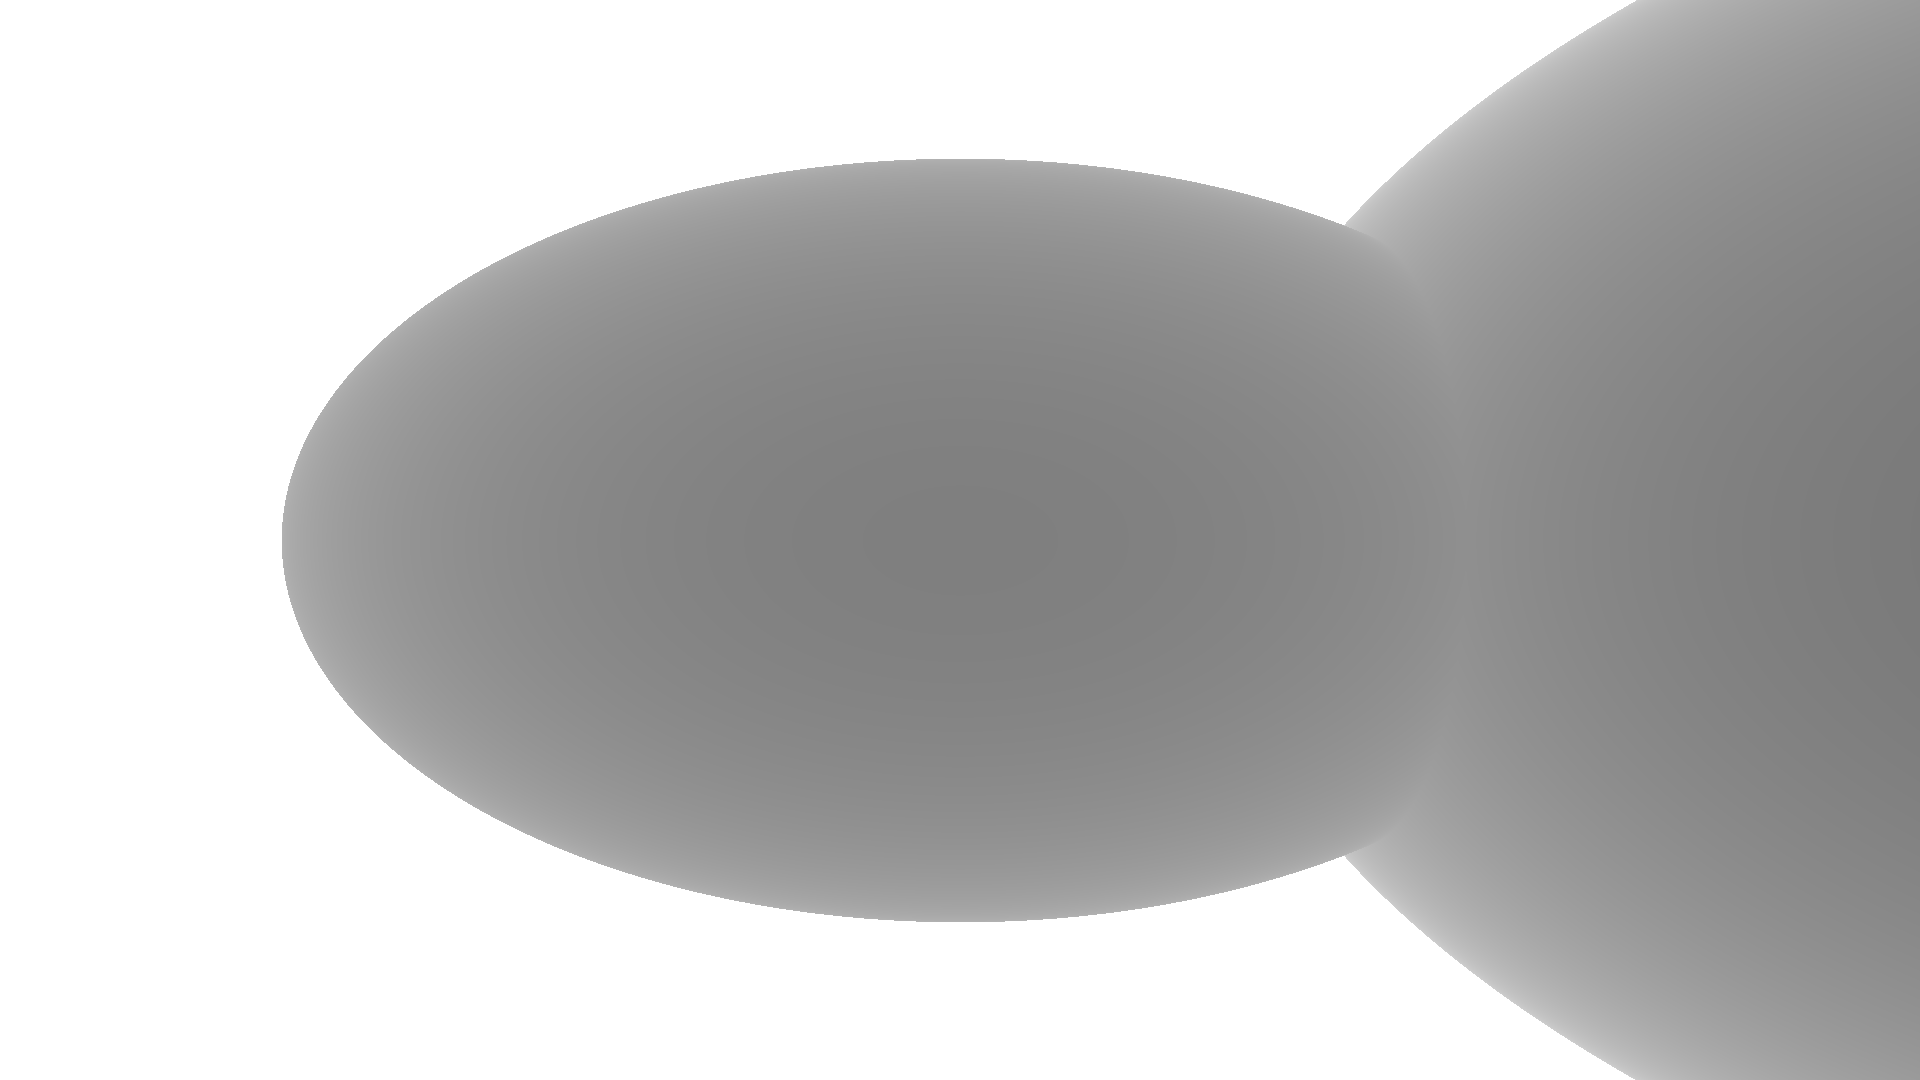
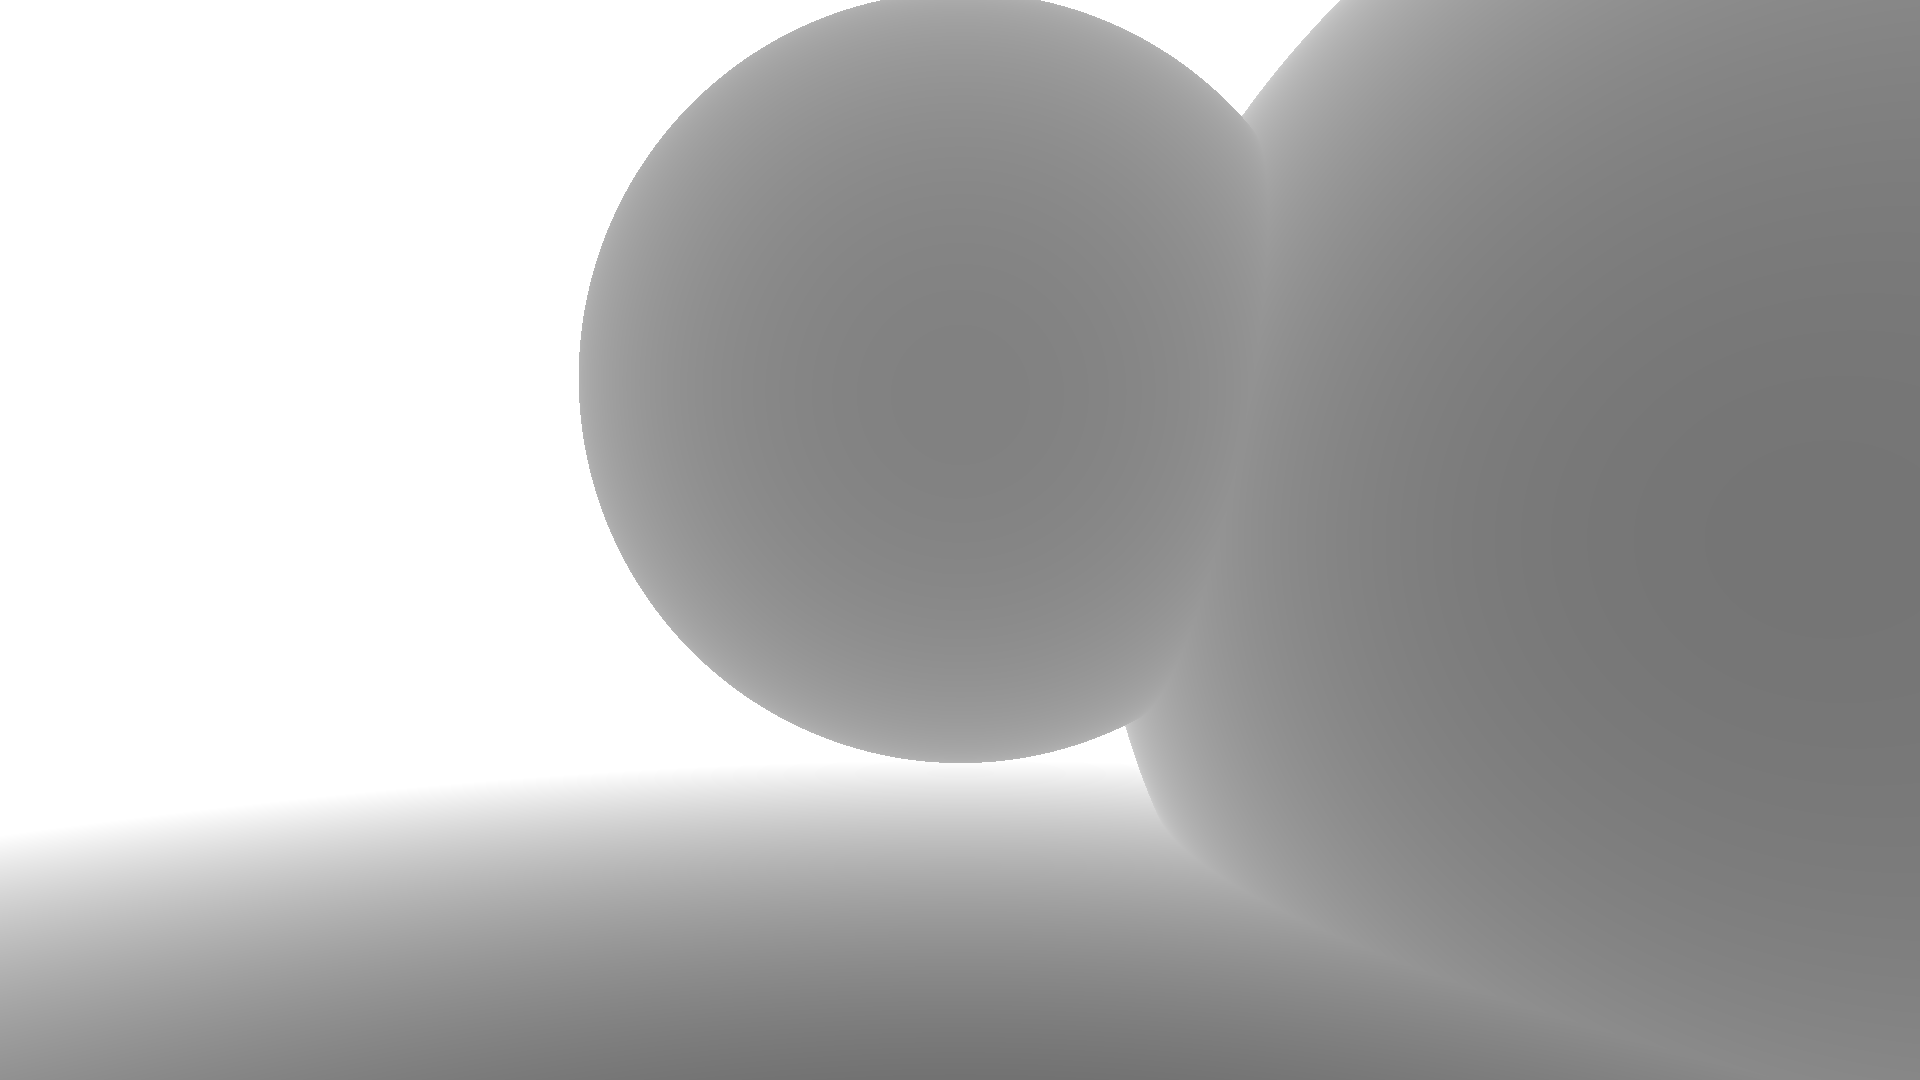
aspect_ratio, 2 bug fixes: image upside-down + u8 overflow

diff --git a/src/integrators/simple_integrator.rs b/src/integrators/simple_integrator.rs
@@ -32,11 +32,11 @@ impl Integrator for SimpleIntegrator {
                         let closest_hit = scene.intersect(&ray);
                         let mut color: u8 = 255;
                         if let Some(t) = closest_hit {
-                            color = (t * 255.0) as u8;
+                            color = f32::min(255.0, (t * 255.0)) as u8;
                         }
                         (
                             x as u32,
-                            y as u32,
+                            (viewport.y - 1 - y) as u32,
                             Rgb {
                                 data: [color, color, color],
                             },

diff --git a/src/core/api.rs b/src/core/api.rs
@@ -22,9 +22,15 @@ pub fn run() {
     ));
 
     primitives.push(Primitive::new(
-        Box::new(Sphere::new(Vector3::new(0.0, 0.0, -0.75), 0.25)),
+        Box::new(Sphere::new(Vector3::new(0.0, 0.1, -0.75), 0.25)),
         Box::new(Plastic::new()),
     ));
+
+    primitives.push(Primitive::new(
+        Box::new(Sphere::new(Vector3::new(0.0, -500.2, 0.0), 500.0)),
+        Box::new(Plastic::new()),
+    ));
+
     let mut lights: Vec<Box<Light>> = Vec::new();
     lights.push(Box::new(PointLight::new(Vector3::new(0.0, 1.0, 1.0))));
 

diff --git a/src/cameras/persp_camera.rs b/src/cameras/persp_camera.rs
@@ -28,7 +28,8 @@ impl PerspectiveCamera {
 }
 impl Camera for PerspectiveCamera {
     fn generate_ray(&self, pixel: Vector2<u32>) -> Ray {
-        let xpart = (pixel.x as f32) / (self.viewport.x as f32) - 0.5;
+        let aspect_ratio = self.viewport.x as f32 / self.viewport.y as f32;
+        let xpart = ((pixel.x as f32) / (self.viewport.x as f32) - 0.5) * aspect_ratio;
         let ypart = (pixel.y as f32) / (self.viewport.y as f32) - 0.5;
 
         Ray::new(self.origin, Vector3::new(xpart, ypart, -1.0).normalize())

diff --git a/src/shapes/sphere.rs b/src/shapes/sphere.rs
@@ -22,8 +22,10 @@ impl Shape for Sphere {
         match res {
             Some((t1, t2)) => if t1 >= 0.0 {
                 Some(t1)
-            } else {
+            } else if (t2 >= 0.0) {
                 Some(t2)
+            } else {
+                None
             },
             None => None,
         }
